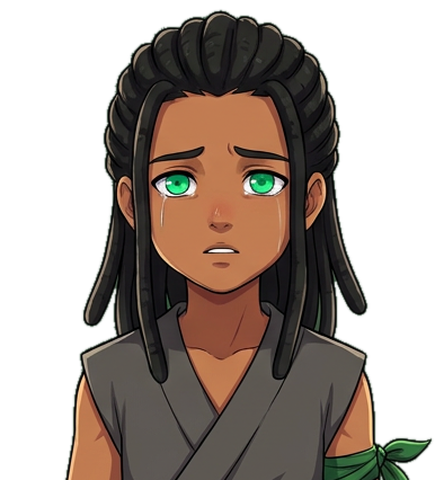
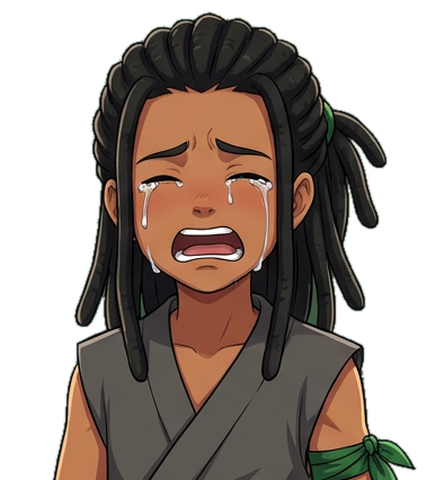
Ilya the historian, hero naming, new Oren and kid Ren art
Claude-Session: https://claude.ai/code/session_01Y9XB2BHqdWdEP8tdmCfuZX

diff --git a/emerald-blood/js/lore.js b/emerald-blood/js/lore.js
@@ -51,7 +51,7 @@ const WORLD = {
         agenda: 'To bring the Crown down by any means. Everything Kairo could become, twenty years older.', under: 'The Cinder Brigade · Old Mags' },
       { id: 'saint', band: 0, name: 'Abbot Merrow', tag: 'the Hollow Saint', race: 'Drag', tier: 'SSS', territory: 'The Dustveil Wastes', need: 'kingsKnown',
         text: 'A Drag who believes his people are Fratenaptor\'s children — and that the chains the Seven Elders forged are the real crime. He says the "Father" speaks to him in dreams, from beneath the sand. (Fratenaptor\'s tomb is in the eastern mountains. The Dustveil is in the far south-west. Nobody has ever pointed this out to him.) His followers are the only people alive who truly worship the dragon. Every Drag hanged in a market square was hanged because men like him exist.',
-        agenda: 'To feed enough D-stones to the tomb-mountains that the dragon wakes and "frees its children." Ren\'s darkest mirror.', under: 'The Ashen Choir · Brother Hask' },
+        agenda: 'To feed enough D-stones to the tomb-mountains that the dragon wakes and "frees its children." Your darkest mirror.', under: 'The Ashen Choir · Brother Hask' },
       { id: 'grimtusk', band: 1, name: 'Hrok Grimtusk', tag: 'the Tusk King', race: 'Beast-folk (exiled)', tier: 'SSS', territory: 'The Fanglands — the northern steppe', need: 'kingsKnown',
         text: 'A tusked beast-folk warlord whose people were burned off the green steppe by the Crown and pushed into the frozen north. Has a code of honor older than the Empire. Respects strength, despises cowards, keeps every promise.',
         agenda: 'To take back the steppe. The enemy of his enemy might be a Drag.', under: 'The Howling Hundred · his daughter Kesra' },
@@ -122,9 +122,9 @@ const SIGS = {
   ursa: { el: 'fire', stone: 'The Halfmoon (worn at her chest)', will: 'Gentleness. It refuses to work in anger — Ursa must fight calm.', art: 'Moonmother', artText: 'Heals her whole party and stores the healing as rage: her next punch hits as hard as the HP she restored.' },
   borrik: { el: 'lightning', stone: 'The Rune-Root (in his hammer)', will: 'Curiosity. It wants to learn every rune ever carved. He is still a little afraid of it.', art: 'Deep Writ', artText: 'Hammers a glowing rune-circle into the ground: allies inside gain DEF, enemies inside lose it. Newest to SSS; it takes him two turns to finish.' },
   mara: { el: 'water', stone: 'The Reef-Heart', will: 'Homesick. It sings for the drowned islands, and it obeys whoever promises to take it home.', art: 'Undertow', artText: 'A living water serpent coils around a target and drags them to the back of the turn order.' },
-  cael: { el: 'light', stone: 'Pale Mercy — the mother-stone of every Verdict-stone', will: 'Hatred of Drags as deep as his own. That is why it chose him.', art: 'Drag-Breaker', artText: 'The halberd drinks green mana out of the air. Against Drags: cancels Emerald Sight and Azure Tide on hit, and every Drag Art used near him costs HP. The rival built to beat Ren.' },
+  cael: { el: 'light', stone: 'Pale Mercy — the mother-stone of every Verdict-stone', will: 'Hatred of Drags as deep as his own. That is why it chose him.', art: 'Drag-Breaker', artText: 'The halberd drinks green mana out of the air. Against Drags: cancels Emerald Sight and Azure Tide on hit, and every Drag Art used near him costs HP. The rival built to beat you.' },
   odo: { el: 'wind', stone: 'The Thirteenth Card', will: 'Luck. Or mischief. Odo isn\'t sure there\'s a difference.', art: 'Dealer\'s Choice', artText: 'Throws a storm of glowing cards; the effect is random every time — from a harmless sting to the strongest single hit in the Guild.' },
-  vane: { el: 'wind', stone: '(none — his was taken)', will: 'His stone was torn from his sword the day Dread took his arm. He has fought forty years of stories without it — and his sword is still faster than most stones.', art: 'The Sheathed Draw', artText: 'The style Ren carries now. A sword is loudest in its sheath.' }
+  vane: { el: 'wind', stone: '(none — his was taken)', will: 'His stone was torn from his sword the day Dread took his arm. He has fought forty years of stories without it — and his sword is still faster than most stones.', art: 'The Sheathed Draw', artText: 'The style you carry now. A sword is loudest in its sheath.' }
 };
 /* ---------- legends & the Unwritten History (fragments found in the world) ---------- */
 const LEGENDS = [
@@ -133,7 +133,7 @@ const LEGENDS = [
   { name: 'The Seven Elders', need: null,
     text: 'Seven Drags who stood against Fratenaptor four hundred years ago and chained it beneath the tomb-mountains. The Empire\'s histories call them "the dragon\'s penitent servants." The Drags\' own songs call them heroes. Strangely, no two histories agree on what the chains were made of.' }
 ];
-const PAGES = [ // fragments of an old Drag chronicle, scattered and half-burned
+const PAGES = [ // fragments of an old Drag chronicle, scattered and half-burned — Ren and Ilya's mother spent her life hunting them
   '"…and the dragon was our guardian before it was anyone\'s terror. It kept the old roads safe and asked only for songs. Then the gold king came to court it, with a gift in his hands…"',
   '"…he was the first of men to learn that a stone can be cut from a living dragon, and that whoever wears the stone wears the dragon\'s will. He set it in a crown and named the crown CHAINS, and laughed at his own joke…"',
   '"…for a hundred days the sky was gold. Then the dragon wept fire on every city that would not kneel. The world called it the Cataclysm. The world blamed the dragon. The dragon could not speak to tell them…"',
@@ -147,7 +147,7 @@ function legendsHTML() {
   const f = G.S.f, pages = G.S.pages || [];
   let h = `<div class="stat" style="margin-bottom:6px"><h3>Legends</h3></div>`;
   for (const L of LEGENDS) if (!L.need || f[L.need]) h += `<div class="stat lore" style="margin-bottom:6px"><h3 style="color:#ffd88a">${L.name}</h3><p>${L.text}</p></div>`;
-  h += `<div class="stat lore" style="margin-bottom:6px"><h3 style="color:#c8a0ff">The Unwritten History <span class="muted">· ${pages.length}/${PAGES.length} fragments</span></h3><p class="muted">Burned pages of an old Drag chronicle, hidden in chests across the land. Someone wanted them gone. Someone else wanted them found.</p>${pages.length ? pages.slice().sort((a, b) => a - b).map(i => `<p><b style="color:#c8a0ff">${['I', 'II', 'III', 'IV', 'V', 'VI', 'VII'][i]}.</b> ${PAGES[i]}</p>`).join('') : '<p class="muted">No fragments found yet.</p>'}</div>`;
+  h += `<div class="stat lore" style="margin-bottom:6px"><h3 style="color:#c8a0ff">The Unwritten History <span class="muted">· ${pages.length}/${PAGES.length} fragments</span></h3><p class="muted">Burned pages of an old Drag chronicle, hidden in chests across the land. Someone wanted them gone. Someone else wanted them found. One was copied out by your mother, Amara — a historian who went to Aurel to read the records the Empire keeps locked, and never came home. Ilya wants to finish her work.</p>${pages.length ? pages.slice().sort((a, b) => a - b).map(i => `<p><b style="color:#c8a0ff">${['I', 'II', 'III', 'IV', 'V', 'VI', 'VII'][i]}.</b> ${PAGES[i]}</p>`).join('') : '<p class="muted">No fragments found yet.</p>'}</div>`;
   return h;
 }
 function worldMenuHTML() {

diff --git a/emerald-blood/js/ui.js b/emerald-blood/js/ui.js
@@ -137,7 +137,7 @@ const UI = {
     if (loadSave() && !confirm('Start a new game? Your current save will be replaced.')) return;
     audioUnlock();
     // character creation is switched off for now: Ren, Ilya and Kairo use the looks from the portrait art
-    $('#title').classList.add('hide'); G.S = newState(defaultLook(), 'Ren'); sfx('start');
+    $('#title').classList.add('hide'); const nm = await askName(); G.S = newState(defaultLook(), nm); sfx('start');
     G.mode = 'boot'; $('#loading').classList.remove('hide'); $('#loadTxt').textContent = 'Forging your Drag…'; $('#loadBar').style.width = '60%';
     await wait(30); await buildPlayerSprites(); await applyCast(); $('#loading').classList.add('hide');
     $('#fade').classList.add('on');
@@ -236,7 +236,7 @@ const UI = {
       const st = G.settings;
       body = `<div class="grid2"><div class="stat"><h3>Sound effects</h3><button class="btn" data-s="sfx">${st.sfx ? 'On' : 'Off'}</button></div><div class="stat"><h3>Music</h3><button class="btn" data-s="music">${st.music ? 'On' : 'Off'}</button></div>
         <div class="stat"><h3>Timing ring</h3><p>Shows when enemy hits land.</p><button class="btn" data-s="ring">${st.ring ? 'On' : 'Off'}</button></div><div class="stat"><h3>Text speed</h3><button class="btn" data-s="text">${['Slow', 'Normal', 'Fast'][st.text ?? 1]}</button></div></div>
-        <div class="btnrow"><button class="btn" id="mSave">Save now</button><button class="btn" id="mCredits">Credits</button><button class="btn" id="mTitle">Title screen</button></div>`;
+        <div class="btnrow"><button class="btn" id="mName">Rename hero</button><button class="btn" id="mSave">Save now</button><button class="btn" id="mCredits">Credits</button><button class="btn" id="mTitle">Title screen</button></div>`;
     }
     $('#menuCard').innerHTML = `<h2>MENU</h2><div class="tabs">${tabs}<button id="mClose" style="margin-left:auto;border-color:#2f8a55;color:var(--green)">Close ✕</button></div>${body}`;
     $$('#menuCard .tabs button[data-t]').forEach(b => bindTap(b, () => { this.menuTab = b.dataset.t; sfx('blip'); this.renderMenu(); }));
@@ -249,6 +249,7 @@ const UI = {
     if (uT) bindTap(uT, () => { if (!S.items.tonic) return; S.items.tonic--; s.hp = Math.min(s.maxHp, s.hp + Math.round(s.maxHp * .45)); sfx('heal'); this.renderMenu(); });
     if (uE) bindTap(uE, () => { if (!S.items.ether) return; S.items.ether--; s.mp = Math.min(s.maxMp, s.mp + 12); sfx('heal'); this.renderMenu(); });
     $$('#menuCard [data-s]').forEach(b => bindTap(b, () => { const k = b.dataset.s; if (k === 'text') G.settings.text = ((G.settings.text ?? 1) + 1) % 3; else G.settings[k] = !G.settings[k]; saveSettings(); if (k === 'music') { const m = World.scene && World.scene.music; Music.stop(); if (G.settings.music && m) Music.play(typeof m === 'function' ? m() : m); } this.renderMenu(); }));
+    const mn = $('#mName'); if (mn) bindTap(mn, async () => { const v = await askName(); G.S.name = v; save(); UI.hud(); toast(`You are now <b>${esc(v)}</b>.`); this.renderMenu(); });
     const ms = $('#mSave'); if (ms) bindTap(ms, () => { save(); toast('Game saved.'); });
     const mc = $('#mCredits'); if (mc) bindTap(mc, () => this.credits());
     const mt = $('#mTitle'); if (mt) bindTap(mt, () => { save(); $('#menu').classList.add('hide'); World.busy = false; this.title(); });
@@ -276,3 +277,19 @@ for (let i = 1; i <= 4; i++) Input.on('choice' + i, () => Dlg.choose(i - 1));
 bindTap($('#tNew'), () => UI.newGame());
 bindTap($('#tContinue'), () => UI.cont());
 bindTap($('#tCredits'), () => UI.credits());
+
+/* ---------- choose the hero's name at the start ---------- */
+function askName() {
+  return new Promise(res => {
+    const ov = document.createElement('div'); ov.className = 'ov'; ov.style.cssText = 'z-index:60;background:radial-gradient(ellipse at center,#10301c,#050806);flex-direction:column;gap:14px';
+    ov.innerHTML = `<div style="font-family:'Press Start 2P';color:var(--green);font-size:clamp(12px,2.2vw,16px);text-shadow:0 0 12px #46ff95">WHAT IS YOUR NAME?</div>
+      <input id="nmIn" maxlength="12" value="${esc((G.S && G.S.name) || 'Ren')}" autocomplete="off" spellcheck="false" style="font:600 22px 'Pixelify Sans',sans-serif;text-align:center;width:min(70vw,320px);padding:10px;border-radius:10px;border:2px solid #2f8a55;background:#0c1a12;color:#e8fff0;outline:none">
+      <div class="muted" style="font-size:13px">You can change it later in Settings.</div>
+      <div class="btnrow"><button class="btn" id="nmDef">Keep "Ren"</button><button class="btn" id="nmGo" style="border-color:#46ff95;color:#46ff95">Begin ▶</button></div>`;
+    document.body.appendChild(ov);
+    const inp = ov.querySelector('#nmIn'); setTimeout(() => { inp.focus(); inp.select(); }, 60);
+    const go = v => { v = (v || '').replace(/[<>{}]/g, '').trim().slice(0, 12) || 'Ren'; ov.remove(); res(v); };
+    bindTap(ov.querySelector('#nmGo'), () => go(inp.value)); bindTap(ov.querySelector('#nmDef'), () => go('Ren'));
+    inp.addEventListener('keydown', e => { e.stopPropagation(); if (e.key === 'Enter') go(inp.value); });
+  });
+}

diff --git a/emerald-blood/js/story.js b/emerald-blood/js/story.js
@@ -172,7 +172,7 @@ async function talkIlya(e) {
   }
   if (f.dusk) { await say('ilya', null, "Come sit by the fire! Jun says he'll make the sparks dance!"); return; }
   if (!f.ribbon) { await say('ilya', null, "Nana's house! Come ON, {sib}!"); return; }
-  const l = ["Do you think dragons have birthdays?", "When I grow up I'm going to see the ocean. Nana says it's bigger than the sky.", "Oren says you're good with a sword. I'm good with a stick.", "My ribbon matches your eyes. That was on purpose."];
+  const l = ["Do you think dragons have birthdays? Mama's notes say dragons used to come to OUR festivals. Nobody believes me.", "When I grow up I'm going to be a historian. Like Mama. I'm going to find out what REALLY happened and write it in a big book.", "Did you know the old shrine on the ridge is older than the Empire? I counted the moss. That's science.", "My ribbon matches your eyes. That was on purpose.", "Nana says Mama could read seven languages. I can read one and a half. The half is dragon runes.", "Historians don't believe things just because grown-ups say them. Mama wrote that on the first page of every book. I'm going to write it in mine too.", "The Empire's history book says the Seven Elders were BAD. But the songs say they were heroes. Both can't be true. So somebody's lying. I'm going to find out who.", "I'm making a museum! It has one rock, one feather and one very old spoon. The spoon is probably from before the Empire. Probably.", "When I'm a real historian I'll go to Aurel. Mama said the big library there has a door nobody's allowed to open. I'm going to open it.", "Amara Thornvale. That was Mama's name. When I write my big book I'm putting her name on the cover next to mine."];
   await say('ilya', null, l[G.S.steps % l.length]);
 }
 async function talkNana() {
@@ -196,6 +196,11 @@ async function talkNana() {
   if (c === 0) { await me('happy', "I'll always find you, Ilya. Pinky promise."); await say('ilya', null, "Dragon law!"); }
   else { await me('happy', "This is the worst knot I've ever seen."); await say('ilya', null, "It's a DRAGON knot. It's supposed to look like that."); }
   await say('nana', 'sad', "…The two of you. Your mother would have laughed until she cried.");
+  await say('ilya', null, "Nana, after the festival can I read Mama's books? The ones in the chest? I'm going to be a historian, just like her. I'm going to write down everything that REALLY happened. Not the Empire's version.");
+  await say('nana', 'sad', "…Your mother said those exact words when she was your age, little one. Word for word.");
+  await say('nana', 'neutral', "Amara went to read the old records in Ashford — and then further, to Aurel — and never came home. She wrote down too much, I think. — When you're older. I promise.");
+  await say('ilya', null, "I'm already older. I got older TODAY. …Fine. But I'm writing that down: 'Nana promised.' Historians keep records.");
+  F().mamaBooks = 1;
   await say('nana', 'neutral', "{name}. Oren wants you at the forge before the festival. Something about a blade.");
   Story.quest("See Oren at the forge (the brick house east of Nana's).");
 }
@@ -260,7 +265,7 @@ async function festival() {
   await say('ilya', null, "{Sib}… can I ask you something?");
   await say('ilya', null, "Why do we have to hide? Our eyes are pretty. Nana says people out there think we're monsters.");
   const c = await ask('ilya', null, "Are we monsters?", ["No. People are just afraid of what they don't understand.", "Some people need a monster to blame.", "I don't know, Ilya."]);
-  if (c === 0) await say('ilya', null, "Then we just have to make them understand! I'll do it. I'm very convincing.");
+  if (c === 0) await say('ilya', null, "Then we just have to make them understand! I'll do it — I'll be a historian like Mama and find the TRUE story, and then everyone will have to read it. I'm very convincing.");
   else if (c === 1) await say('ilya', null, "…That's sad. I'd rather be blamed than be the one doing the blaming.");
   else await say('ilya', null, "That's okay. You can not-know with me. We'll figure it out together.");
   await say('nana', 'sad', "Fratenaptor nearly ended the world four hundred years ago. And people decided our eyes meant we'd finish the job.");

diff --git a/emerald-blood/js/companions.js b/emerald-blood/js/companions.js
@@ -158,8 +158,8 @@ function tameGame(name, diff) {
 /* ---------- familiars ---------- */
 const FAMS = {
   me: { get name() { return (G.S && G.S.dragonName) || 'Onyx'; }, species: 'Baby dragon', shape: 'dragon', c: ['#2c2e38', '#16171e', '#5fb4ff'], glow: '#8fd0ff', act: { t: 'strike', name: 'Tiny Breath', m: .6 },
-    desc: 'A baby dragon, black as a starless night, with enormous blue eyes. It hatched from an egg Ren found in a ruined Drag shrine in the Realm of No Return. It eats like a whole village, sleeps on Ren\'s head, and sneezes sparks. In a world that hangs people for being "dragon-blooded", nobody can ever see it.' },
-  ilya: { name: 'Bun', species: 'Ribbon-hare', shape: 'hare', c: ['#ffd0e6', '#e07aa8', '#ffffff'], glow: '#ff9ad5', act: { t: 'heal', name: 'Nuzzle', m: .14 }, desc: 'A pink-eared hare with a green ribbon on one ear — the other half of Ren\'s ribbon. Nobody knows how it got there.' },
+    desc: 'A baby dragon, black as a starless night, with enormous blue eyes. It hatched from an egg you found in a ruined Drag shrine in the Realm of No Return. It eats like a whole village, sleeps on your head, and sneezes sparks. In a world that hangs people for being "dragon-blooded", nobody can ever see it.' },
+  ilya: { name: 'Bun', species: 'Ribbon-hare', shape: 'hare', c: ['#ffd0e6', '#e07aa8', '#ffffff'], glow: '#ff9ad5', act: { t: 'heal', name: 'Nuzzle', m: .14 }, desc: 'A pink-eared hare with a green ribbon on one ear — the other half of your ribbon. Nobody knows how it got there.' },
   kairo: { name: 'Cinder', species: 'Ember crow', shape: 'crow', c: ['#26222a', '#0e0c10', '#ff7a3a'], glow: '#ff7a3a', act: { t: 'weaken', name: 'Ash Peck', m: .45 }, desc: 'A crow with coals for eyes that followed Kairo out of burning Thornvale. It pecks out weak points.' },
   liora: { name: 'Selene', species: 'Moon-owl', shape: 'owl', c: ['#f2f2ff', '#b8b8d8', '#ffd34a'], glow: '#e8e8ff', act: { t: 'guard', name: 'Silver Wing', m: 0 }, desc: 'A white owl that only flies at night — except for Liora. It shields her with its wings.' },
   kess: { name: 'Smudge', species: 'Shadow cat', shape: 'cat', c: ['#2a2234', '#120e18', '#c99bff'], glow: '#c99bff', act: { t: 'strike', name: 'Shadow Swipe', m: .55 }, desc: 'A cat that is mostly shadow and partly opinion. It steals things for Kess. Sometimes eyes.' },

diff --git a/emerald-blood/js/dungeons.js b/emerald-blood/js/dungeons.js
@@ -85,7 +85,7 @@ async function spawnExtras(W, name) {
       if (tier === 'gold' && D && !S.f['clear_' + name]) { await narr('The great chest is sealed by a ward that pulses in time with something deeper in the dungeon. Defeat what guards it first.'); return; }
       S.chests[key] = 1; ent.img = Pick.sheet(`chest_${tier}_o`); sfx('blip');
       await grantLoot(LOOT[tier]()); Quests.event('chest', name);
-      const pg = PAGE_AT[mk]; S.pages = S.pages || []; if (pg !== undefined && !S.pages.includes(pg) && (tier === 'gold' || !D)) { S.pages.push(pg); sfx('level'); setTimeout(() => toast(`Under the coins: a <b style="color:#c8a0ff">burned page</b> of an old chronicle. (${S.pages.length}/${PAGES.length} — Menu → World)`, 4200), 1400); }
+      const pg = PAGE_AT[mk]; S.pages = S.pages || []; if (pg !== undefined && !S.pages.includes(pg) && (tier === 'gold' || !D)) { S.pages.push(pg); sfx('level'); if (mk === 'in_nana') setTimeout(() => toast('The page is folded inside a note in a woman\'s careful handwriting: <i>"For my children, when they are old enough to be angry about it. — Mama"</i>', 5200), 5800); setTimeout(() => toast(`Under the coins: a <b style="color:#c8a0ff">burned page</b> of an old chronicle. (${S.pages.length}/${PAGES.length} — Menu → World)`, 4200), 1400); }
       save();
     } });
     W.ents.push(e);

diff --git a/emerald-blood/sw.js b/emerald-blood/sw.js
@@ -1,5 +1,5 @@
 // network-first so updates arrive immediately; cache keeps the game playable offline
-const C = 'emerald-blood-v28';
+const C = 'emerald-blood-v29';
 self.addEventListener('install', e => self.skipWaiting());
 self.addEventListener('activate', e => e.waitUntil(clients.claim()));
 self.addEventListener('fetch', e => {
